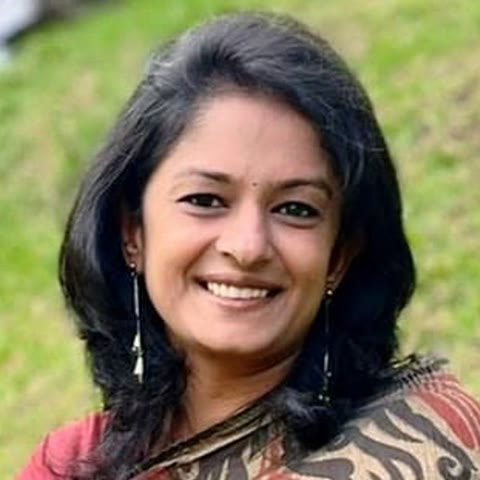
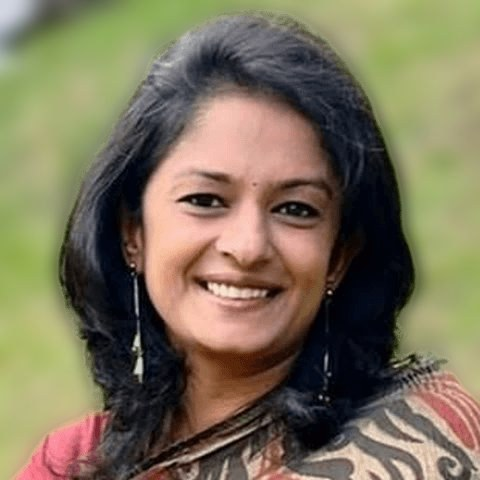
Site: softened backgrounds on Col Vohra's, R Abhilash's and Dr Vasuki's photos

diff --git a/docs/index.html b/docs/index.html
@@ -138,7 +138,7 @@
           <p class="guest__more">Actor; co-founder, Blue Cross of Hyderabad</p></div>
         </li>
         <li class="guest reveal">
-          <img src="img/guests/vasuki.jpg?v=2" alt="Dr K Vasuki IAS" width="480" height="480" loading="lazy">
+          <img src="img/guests/vasuki.jpg?v=3" alt="Dr K Vasuki IAS" width="480" height="480" loading="lazy">
           <div><p class="guest__role">Guest of Honour</p><h3>Dr K Vasuki IAS</h3>
           <p>Secretary to the Governor, Lok Bhavan, Keralam</p>
           <p class="guest__more">Former Secretary, General Education; doctor, administrator and author of <i>The School of Life</i></p></div>
@@ -156,7 +156,7 @@
           <p class="guest__more">Alumnus, Sainik School Kazhakootam (1371/83)</p></div>
         </li>
         <li class="guest reveal">
-          <img src="img/guests/abhilash.jpg?v=3" alt="R Abhilash" width="480" height="480" loading="lazy">
+          <img src="img/guests/abhilash.jpg?v=4" alt="R Abhilash" width="480" height="480" loading="lazy">
           <div><p class="guest__role">Distinguished Panellist</p><h3>R Abhilash</h3>
           <p>Founder, Bloombloom and FEST – The School of Innovators</p>
           <p class="guest__more">Co-founder of e-Toilet and SheTaxi</p></div>
@@ -169,7 +169,7 @@
           <p class="guest__more">Special Address</p></div>
         </li>
         <li class="guest reveal">
-          <img src="img/guests/vohra.jpg?v=2" alt="Col Abhishek Vohra" width="480" height="480" loading="lazy">
+          <img src="img/guests/vohra.jpg?v=3" alt="Col Abhishek Vohra" width="480" height="480" loading="lazy">
           <div><p class="guest__role">Special Guest</p><h3>Col Abhishek Vohra</h3>
           <p>Principal, Sainik School Kazhakootam</p>
           <p class="guest__more">Patron, SSKZM OBA</p></div>

diff --git a/docs/v1/index.html b/docs/v1/index.html
@@ -138,7 +138,7 @@
           <p class="guest__more">Actor; co-founder, Blue Cross of Hyderabad</p></div>
         </li>
         <li class="guest reveal">
-          <img src="img/guests/vasuki.jpg?v=2" alt="Dr K Vasuki IAS" width="480" height="480" loading="lazy">
+          <img src="img/guests/vasuki.jpg?v=3" alt="Dr K Vasuki IAS" width="480" height="480" loading="lazy">
           <div><p class="guest__role">Guest of Honour</p><h3>Dr K Vasuki IAS</h3>
           <p>Secretary to the Governor, Lok Bhavan, Keralam</p>
           <p class="guest__more">Former Secretary, General Education; doctor, administrator and author of <i>The School of Life</i></p></div>
@@ -156,7 +156,7 @@
           <p class="guest__more">Alumnus, Sainik School Kazhakootam (1371/83)</p></div>
         </li>
         <li class="guest reveal">
-          <img src="img/guests/abhilash.jpg?v=3" alt="R Abhilash" width="480" height="480" loading="lazy">
+          <img src="img/guests/abhilash.jpg?v=4" alt="R Abhilash" width="480" height="480" loading="lazy">
           <div><p class="guest__role">Distinguished Panellist</p><h3>R Abhilash</h3>
           <p>Founder, Bloombloom and FEST – The School of Innovators</p>
           <p class="guest__more">Co-founder of e-Toilet and SheTaxi</p></div>
@@ -169,7 +169,7 @@
           <p class="guest__more">Special Address</p></div>
         </li>
         <li class="guest reveal">
-          <img src="img/guests/vohra.jpg?v=2" alt="Col Abhishek Vohra" width="480" height="480" loading="lazy">
+          <img src="img/guests/vohra.jpg?v=3" alt="Col Abhishek Vohra" width="480" height="480" loading="lazy">
           <div><p class="guest__role">Special Guest</p><h3>Col Abhishek Vohra</h3>
           <p>Principal, Sainik School Kazhakootam</p>
           <p class="guest__more">Patron, SSKZM OBA</p></div>
